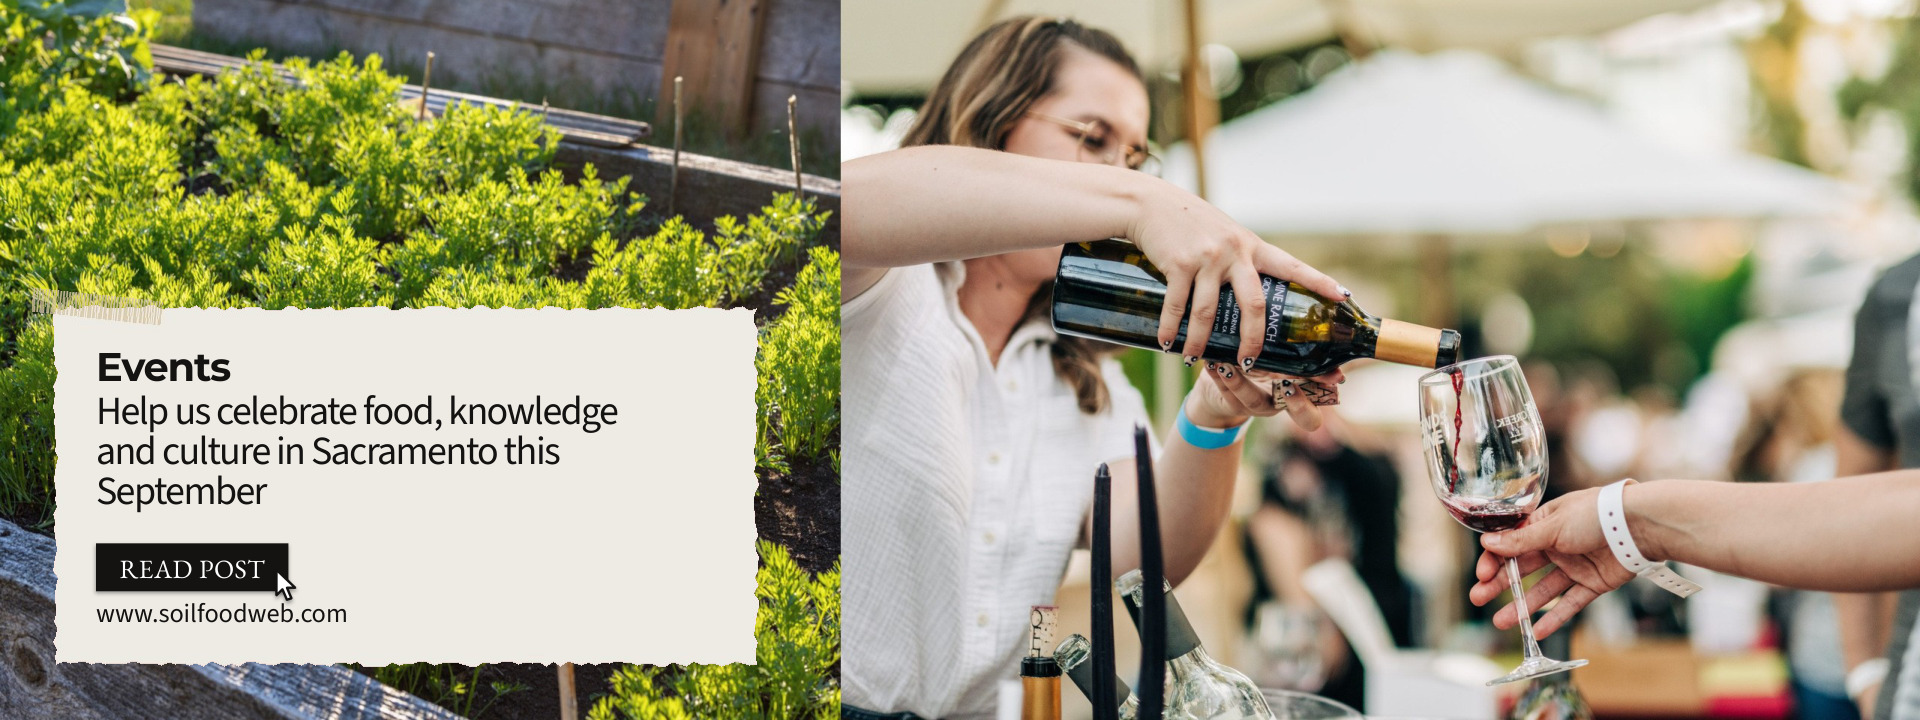
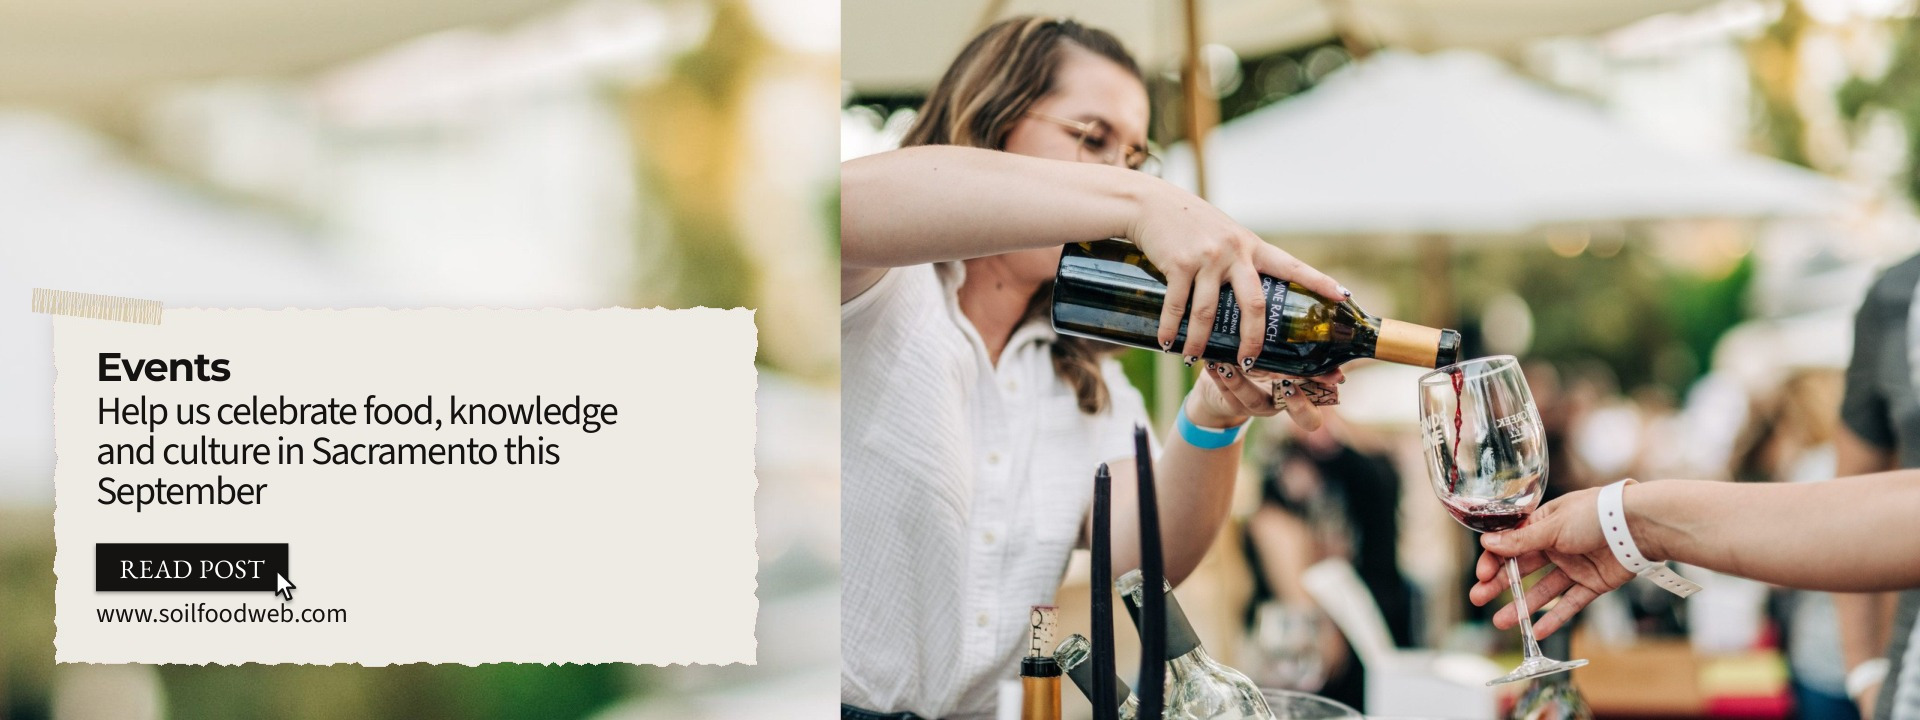
Blog cards: Sacramento desktop uses only the wine photo
Claude-Session: https://claude.ai/code/session_01LLv6pkd6pVHpjELa35dCxs

Changed region(s): [[0.0, 0.0, 0.4375, 1.0]]

diff --git a/tools/blog-cards/build.py b/tools/blog-cards/build.py
@@ -216,7 +216,7 @@ WIDE = {
  'living-legacy-webinar-series':       (D_ + 'cc-mix-vetch-cover-crop.jpg', (.5, .5)),
  'soil-health-week-pakistan':          (D_ + 'cc-mix-vetch-cover-crop.jpg', (.5, .45)),
  'sadhguru-and-the-soil-food-web':     (D_ + 'synergia-dry-grassland.jpg', (.5, .5)),
- 'sacramento-food-knowledge-culture': ('img/uploads/carrot-growing-in-vegitable-bed-community-garden-2025-01-08-04-14-23-utc.jpg', (.5, .4)),
+ 'sacramento-food-knowledge-culture': ('tools/blog-cards/photos/posts2/sacramento-wine-pour-background.jpg', (.5, .5)),   # the wine photo's own tents, behind the paper
  'student-profile-su-kahumbu-stephanou': (D_ + 'R5A_3961-hay-bales-windrows.jpg', (.5, .5)),
 }
 # small source photos: on the wide desktop frame they sit as a sharp panel beside the second photo instead of being stretched
